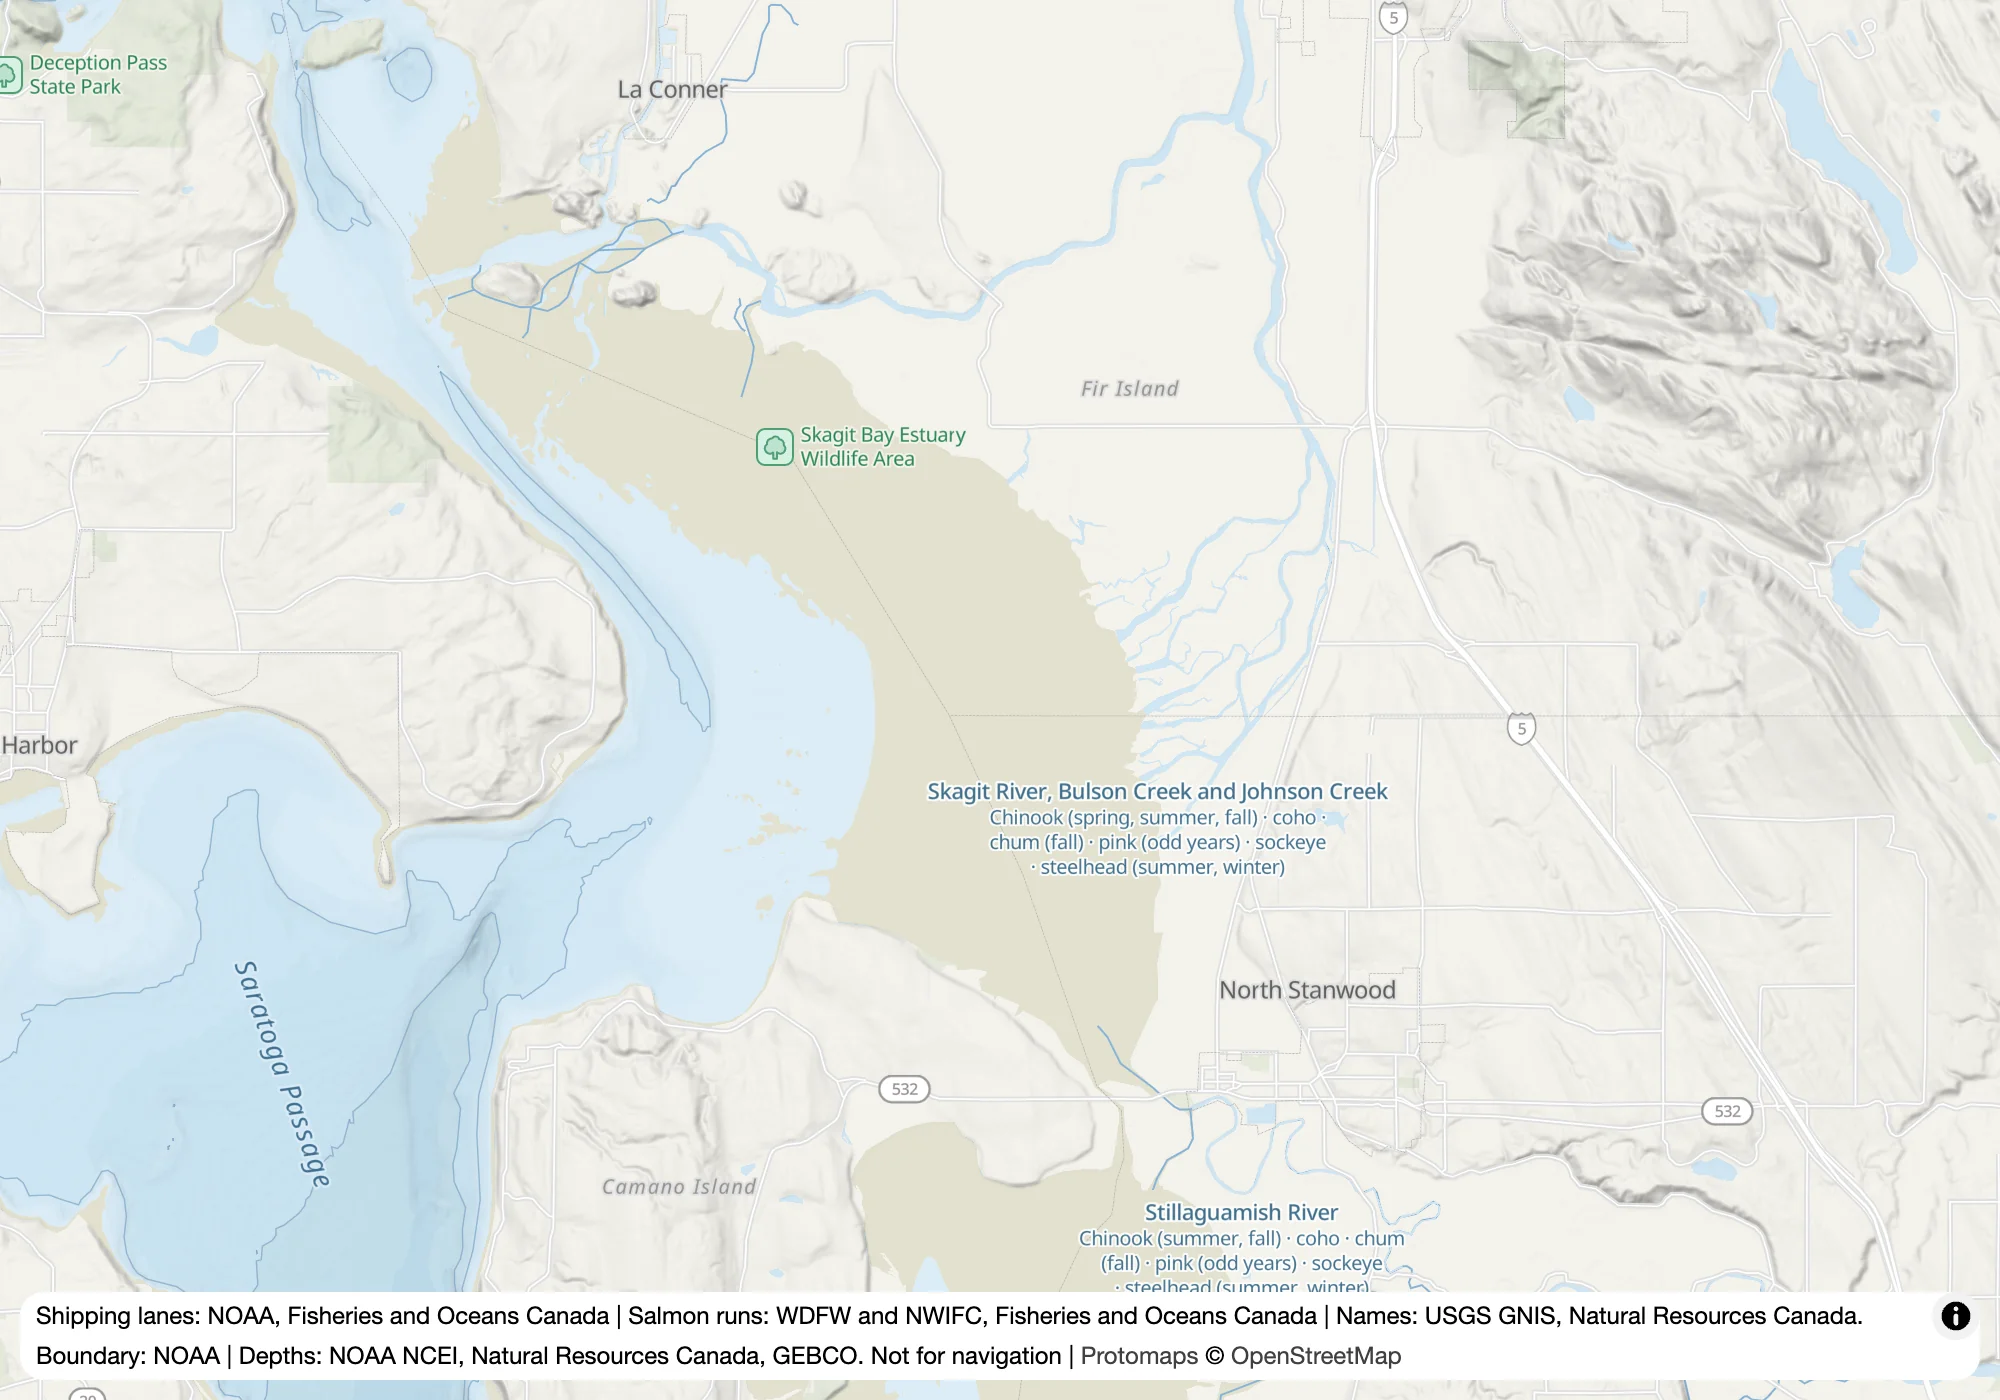
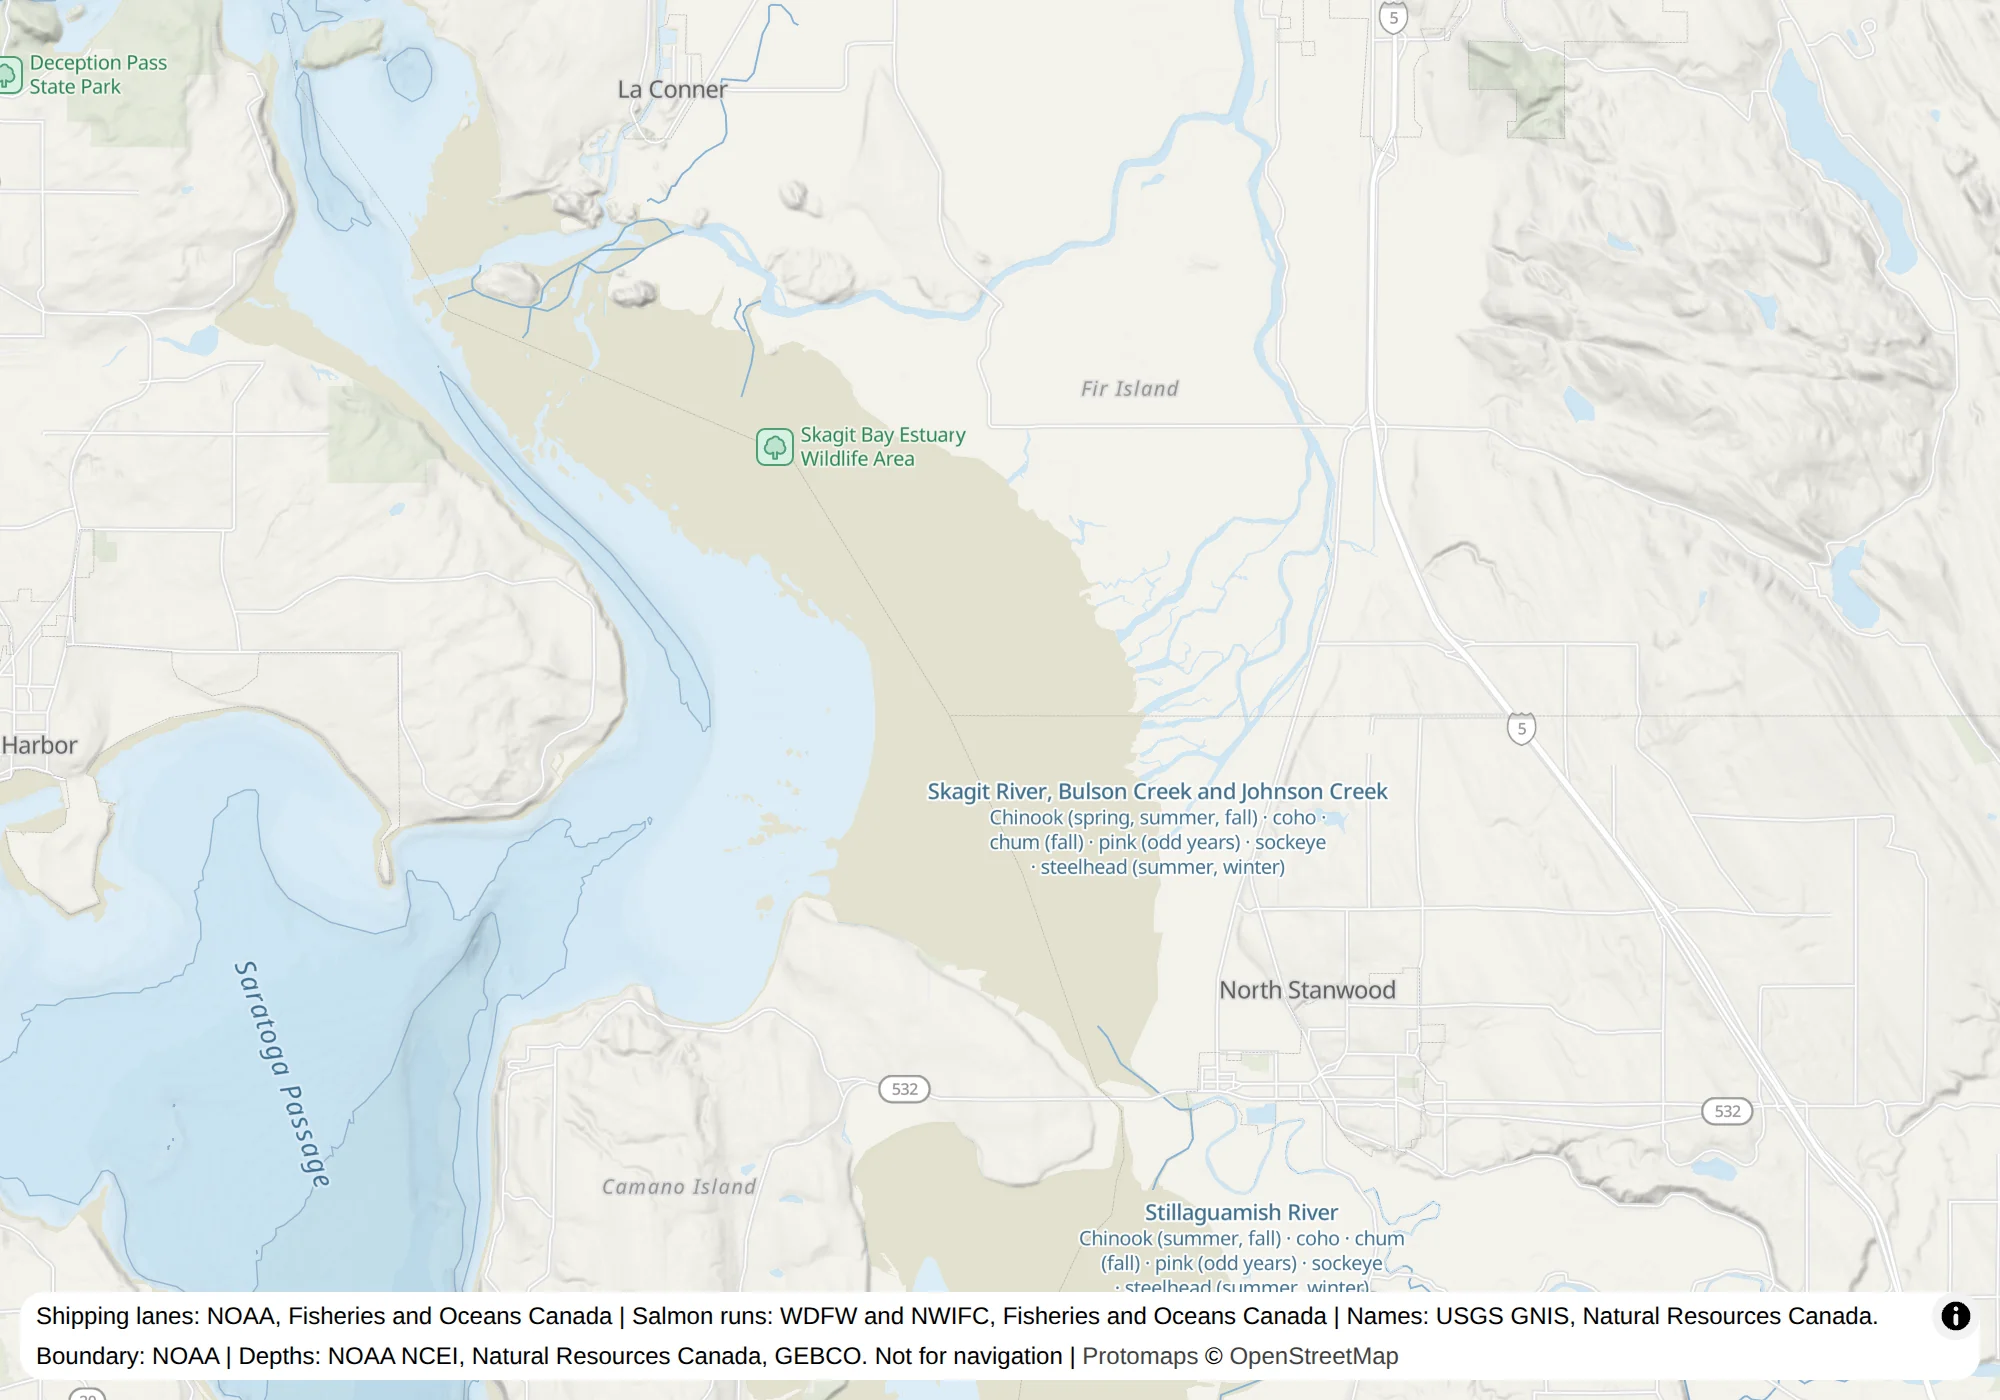
Shade mountains more lightly than the seafloor
The build compresses heights on land onto 300 m · ln(1 + h / 300 m) before
encoding the elevation tiles, so the Olympics, Cascades and Coast Mountains
no longer draw the eye from the water, and rivers are easier to follow
through them. Low islands keep most of their shape; depths are unchanged.
Decision 002 is amended to say why, and what was rejected.

diff --git a/scripts/elevation_tiles.py b/scripts/elevation_tiles.py
@@ -13,6 +13,10 @@ zoom holds a smoothed surface rather than an average of sharper tiles. A zoomed-
 reads the coarsest of the grid's overviews (scripts/mosaic.py writes them) that is still
 twice as fine as the tile; read at full resolution, the zoom-0 tile of the whole coast would
 need 12 GB.
+
+Heights on land are compressed before they are encoded, so that mountains are shaded more
+lightly than the seafloor and don't take the eye from the water (decisions/002). The tiles
+are drawn only as relief, so nothing reads the true heights from them.
 """
 
 import argparse
@@ -89,6 +93,17 @@ def _read(tile: mercantile.Tile) -> np.ndarray:
     return elev
 
 
+def _compress_land(elev: np.ndarray, scale: float) -> np.ndarray:
+    """Heights above sea level squeezed onto scale·ln(1 + h/scale); depths kept as they are.
+
+    A slope keeps 1/(1 + h/scale) of its steepness: with a scale of 300 m, about three
+    quarters at 100 m, so low islands keep their shape, and a quarter at 1000 m.
+    """
+    if scale <= 0:
+        return elev
+    return np.where(elev > 0, scale * np.log1p(np.maximum(elev, 0) / scale), elev)
+
+
 def _terrarium(elev: np.ndarray, precision: float) -> Image.Image:
     # Rounding to a coarser step than the encoding's 1/256 m compresses far better,
     # and a 30 m grid holds nothing finer than a fraction of a metre anyway.
@@ -108,7 +123,7 @@ def _render(t: tuple[int, int, int]) -> tuple[int, bytes | None]:
     if np.isnan(elev).all():
         return tile_id, None
     buf = io.BytesIO()
-    _terrarium(elev, _args.precision).save(buf, "WEBP", lossless=True, method=4)
+    _terrarium(_compress_land(elev, _args.land_scale), _args.precision).save(buf, "WEBP", lossless=True, method=4)
     return tile_id, buf.getvalue()
 
 
@@ -120,6 +135,8 @@ def main() -> None:
     p.add_argument("--minzoom", type=int, default=0)
     p.add_argument("--maxzoom", type=int, required=True)
     p.add_argument("--precision", type=float, default=0.25, help="metres to round elevations to")
+    p.add_argument("--land-scale", type=float, default=300.0,
+                   help="metres over which heights on land are compressed (decisions/002); 0 keeps them true")
     p.add_argument("--fill", help="a coarser grid for what the grid lacks, in tiles that straddle its edge")
     args = p.parse_args()
 

diff --git a/decisions/002-the-relief-is-shaded-by-maplibre.md b/decisions/002-the-relief-is-shaded-by-maplibre.md
@@ -4,6 +4,13 @@
 
 *Amended 2026-10-21:* what shading costs on a phone was measured on Peter's Galaxy S22, a 2022 flagship (Snapdragon 8 Gen 1, Android 15, Chrome 144, a 1080×2340 screen at three device pixels per CSS pixel, drawing at 60 Hz), with SalishSea.io's own style and map settings: panning 500 px over four seconds at zooms 9, 10 and 11 over Haro Strait, then zooming from 9 to 11. With the relief, every pan and zoom ran at 60 frames a second, and not one of 10,084 frames took over 50 ms; the first full render took 1.7 s (the median of six runs) against 1.1 s without it (five runs). With Chrome's developer tools slowing the page's processor four times, as a stand-in for a mid-range phone (the slowing is uneven on Android: a busy loop ran 1.1 to 2.9 times slower), panning ran at 56 frames a second with the relief and 57 without, zooming at 52 and 57, the worst runs at 45 and 49, and the first full render took 1.9 s against 1.4 s. So the relief costs about half a second on first render and nothing measurable in frame rate; a few frames a second on a processor four times slower. Neither fallback considered when this was decided (a lower maxzoom for the elevation tiles, or no relief below some device class) is needed. The phone bounds the fast end of older Android phones, not the slow end. The measurements and the harness are recorded in SalishSea.io's bd `salish-3zok.5`.
 
+*Amended 2026-11-05:* mountains are shaded more lightly than the seafloor. Shaded at one strength, the Olympics, the Cascades and the Coast Mountains were the darkest, busiest thing on the map at zooms 9 to 10 and drew the eye from the water. Rivers were hard to follow through them. MapLibre's hillshade layer can't vary its strength with elevation, so the build compresses heights on land before it encodes them, onto 300 m · ln(1 + h / 300 m) (`--land-scale` in [scripts/elevation_tiles.py](../scripts/elevation_tiles.py)), and leaves depths as they are. A slope keeps 1 / (1 + h / 300 m) of its steepness: about three quarters at 100 m, so low islands such as the San Juans keep their shape, and about a quarter at 1000 m. Peter chose this from five treatments compared over the San Juans, Hood Canal, Howe Sound and Port Angeles. The rejected treatments:
+
+- Scaling all land heights by one factor, 0.5 or 0.3. At 0.3 the mountains were calm enough, but the low islands lost most of their shape with them.
+- A weaker relief everywhere, the strength lowered to 0.15. This needs only a style edit, but it softens the seafloor too, which is the part that should keep its weight.
+
+So the land's share of the relief now needs a rebuild of the two elevation archives to change, not a style edit; the strength of the whole relief still needs only a style edit. Nothing but the relief reads the elevation tiles, so the heights in them need not be true.
+
 ## Context
 
 The relief is the light and shadow of the seafloor and land, drawn under roads and labels and faded out before it would blur. As first decided (073), the build computed it and baked it into translucent image tiles, and the style set only its opacity.

diff --git a/README.md b/README.md
@@ -65,7 +65,7 @@ Everything the style needs, the labels' fonts and the icons included, is served 
 
 - **Depth** is tinted in bands, darker where deeper, with labelled isobaths; the deepest band, from 2000 m, runs to the seafloor's lowest point.
 - **Ground that dries at low tide**, such as the mud flats of Boundary Bay, is khaki ([004](decisions/004-ground-that-dries-at-low-tide-is-drawn.md)).
-- **Relief** shades the seafloor and the land lightly, and fades out by zoom 13, before it would blur ([002](decisions/002-the-relief-is-shaded-by-maplibre.md)).
+- **Relief** shades the seafloor and the land lightly, the mountains more lightly still, so they don't draw the eye from the water, and fades out by zoom 13, before it would blur ([002](decisions/002-the-relief-is-shaded-by-maplibre.md)).
 - **Land** is one flat colour, so that sightings stand out, except parks, state parks among them, in a faint green: many are where people watch from shore. Rivers and streams are blue ([003](decisions/003-land-is-flat-except-parks.md)). A large park is named at its headquarters or visitor centre, if it has one ([026](decisions/026-parks-are-named-at-their-headquarters-and-reserves-tinted-on-the-land.md)).
 - **Ferry routes** are dashed, from zoom 9, because many casual sightings are made from ferries ([005](decisions/005-ferry-routes-are-drawn-from-zoom-9.md)).
 - **Landmarks** people steer by: lighthouses, tall radio and television towers, and what the charts mark as conspicuous from the water, each with an icon and, closer in, its name ([015](decisions/015-landmarks-are-what-the-charts-mark-and-tall-towers.md)).

diff --git a/decisions/README.md b/decisions/README.md
@@ -11,7 +11,7 @@ The decisions that started this project were made in SalishSea.io and stay there
 Recorded here:
 
 - [001](001-canadas-depth-grid-comes-first.md): Canada's depth grid is used wherever it has data, NOAA's elsewhere, each kept in its own vertical datum.
-- [002](002-the-relief-is-shaded-by-maplibre.md): the relief is shaded by MapLibre from elevation tiles, not baked into image tiles. (Amended 2026-10-21: measured on a Galaxy S22, it costs about half a second on first render and nothing in frame rate.)
+- [002](002-the-relief-is-shaded-by-maplibre.md): the relief is shaded by MapLibre from elevation tiles, not baked into image tiles. (Amended 2026-10-21: measured on a Galaxy S22, it costs about half a second on first render and nothing in frame rate. Amended 2026-11-05: heights on land are compressed in the elevation tiles, so mountains are shaded more lightly than the seafloor.)
 - [003](003-land-is-flat-except-parks.md): land is one flat colour, shaped by the relief, except for parks in a faint green; rivers and streams are a clear blue.
 - [004](004-ground-that-dries-at-low-tide-is-drawn.md): ground that dries at low tide is drawn from the depth grid, in khaki.
 - [005](005-ferry-routes-are-drawn-from-zoom-9.md): ferry routes are drawn from zoom 9, one line per channel up to zoom 12, and named from zoom 11.
